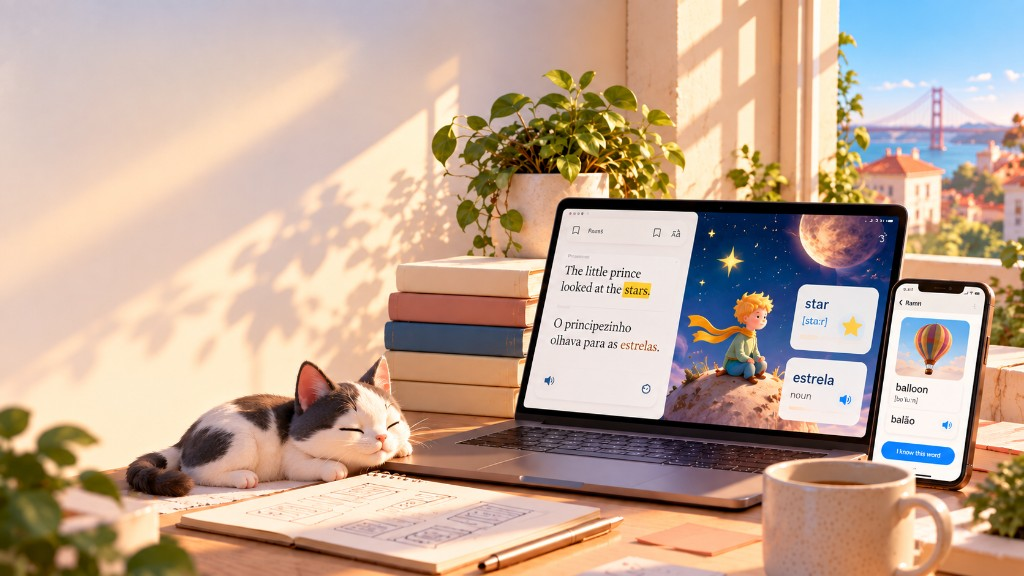
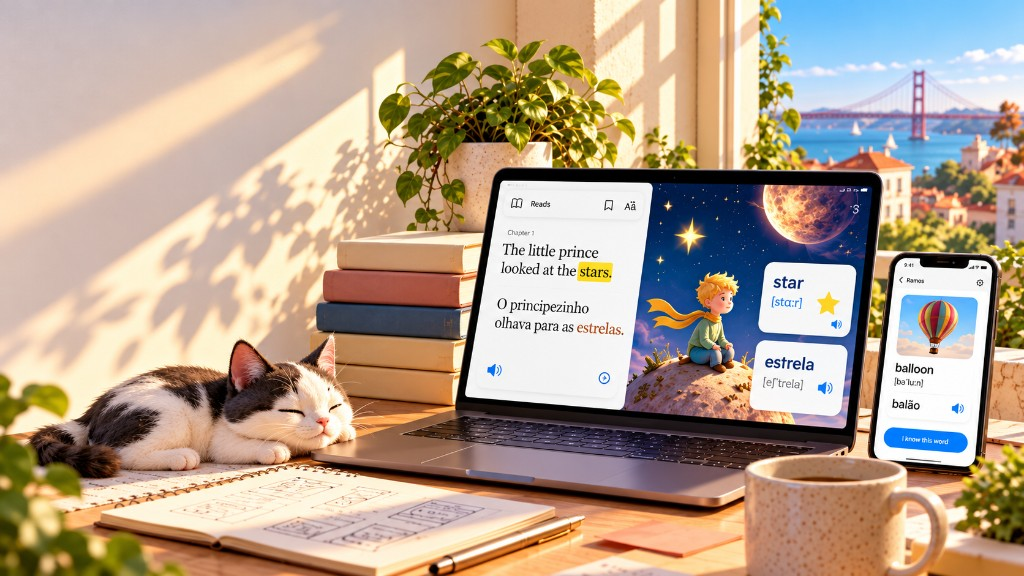
Replace the homepage hero with the sharper bilingual desk scene.

diff --git a/styles.css b/styles.css
@@ -195,7 +195,7 @@ img {
   width: 100%;
   height: 100%;
   object-fit: cover;
-  object-position: 82% 58%;
+  object-position: 78% 55%;
 }
 
 .hero-fade {
